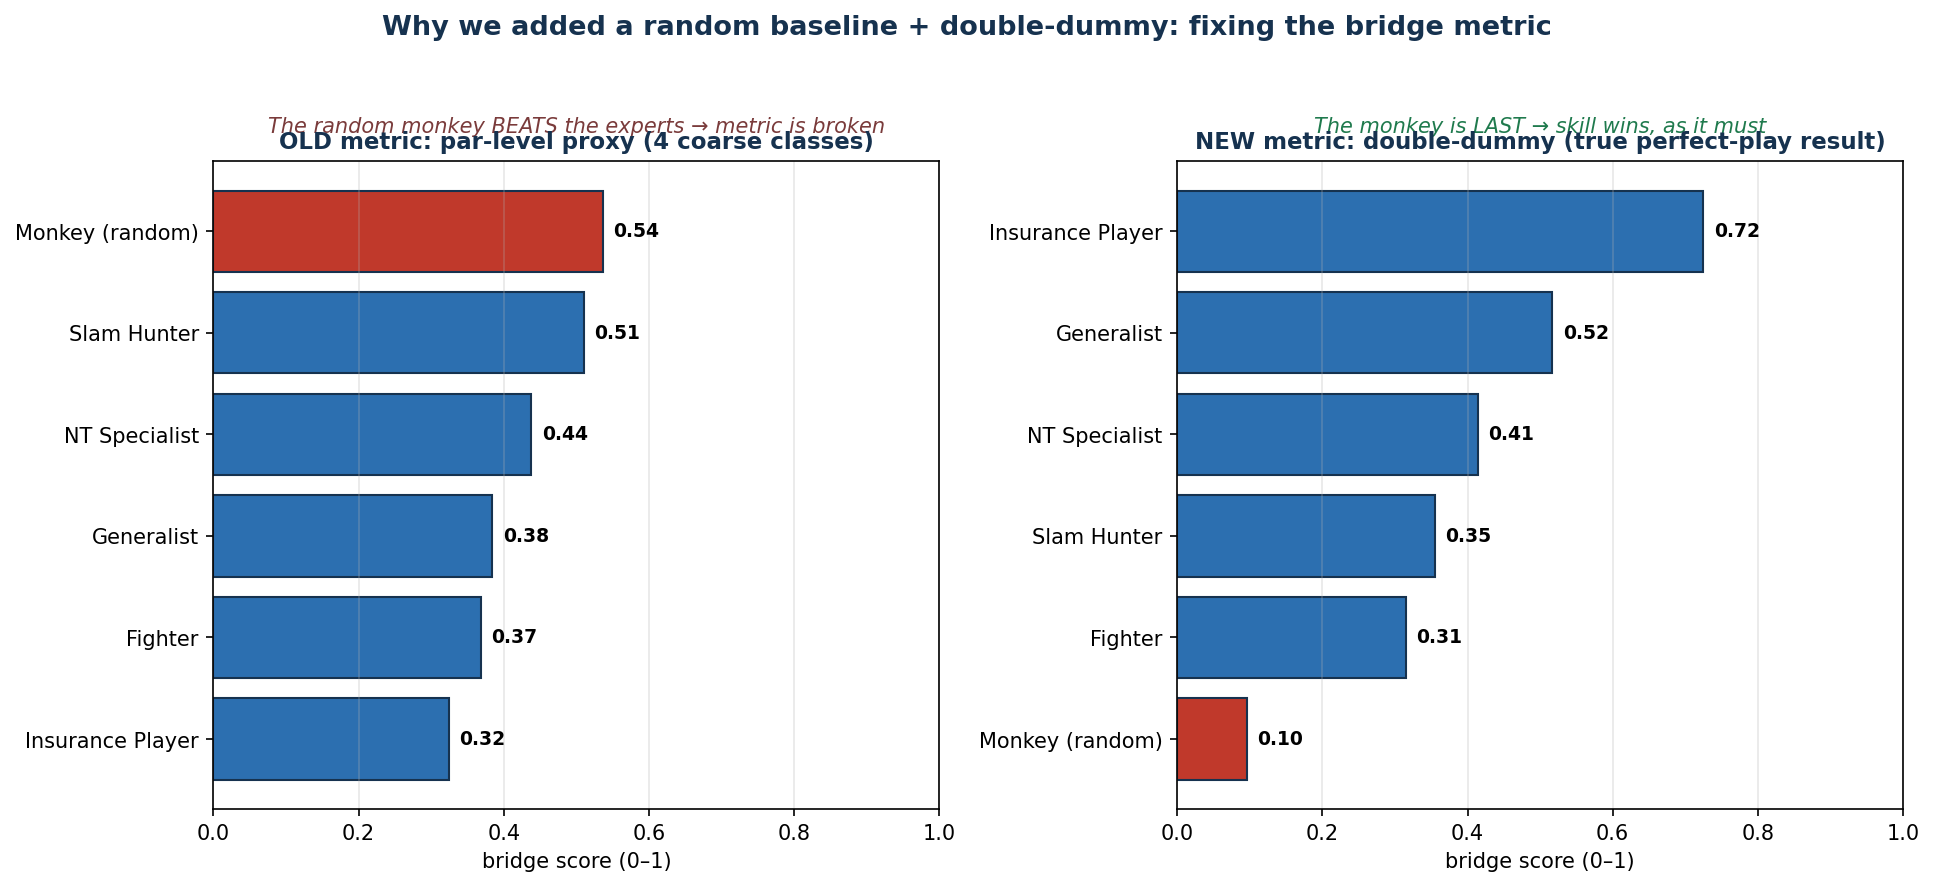
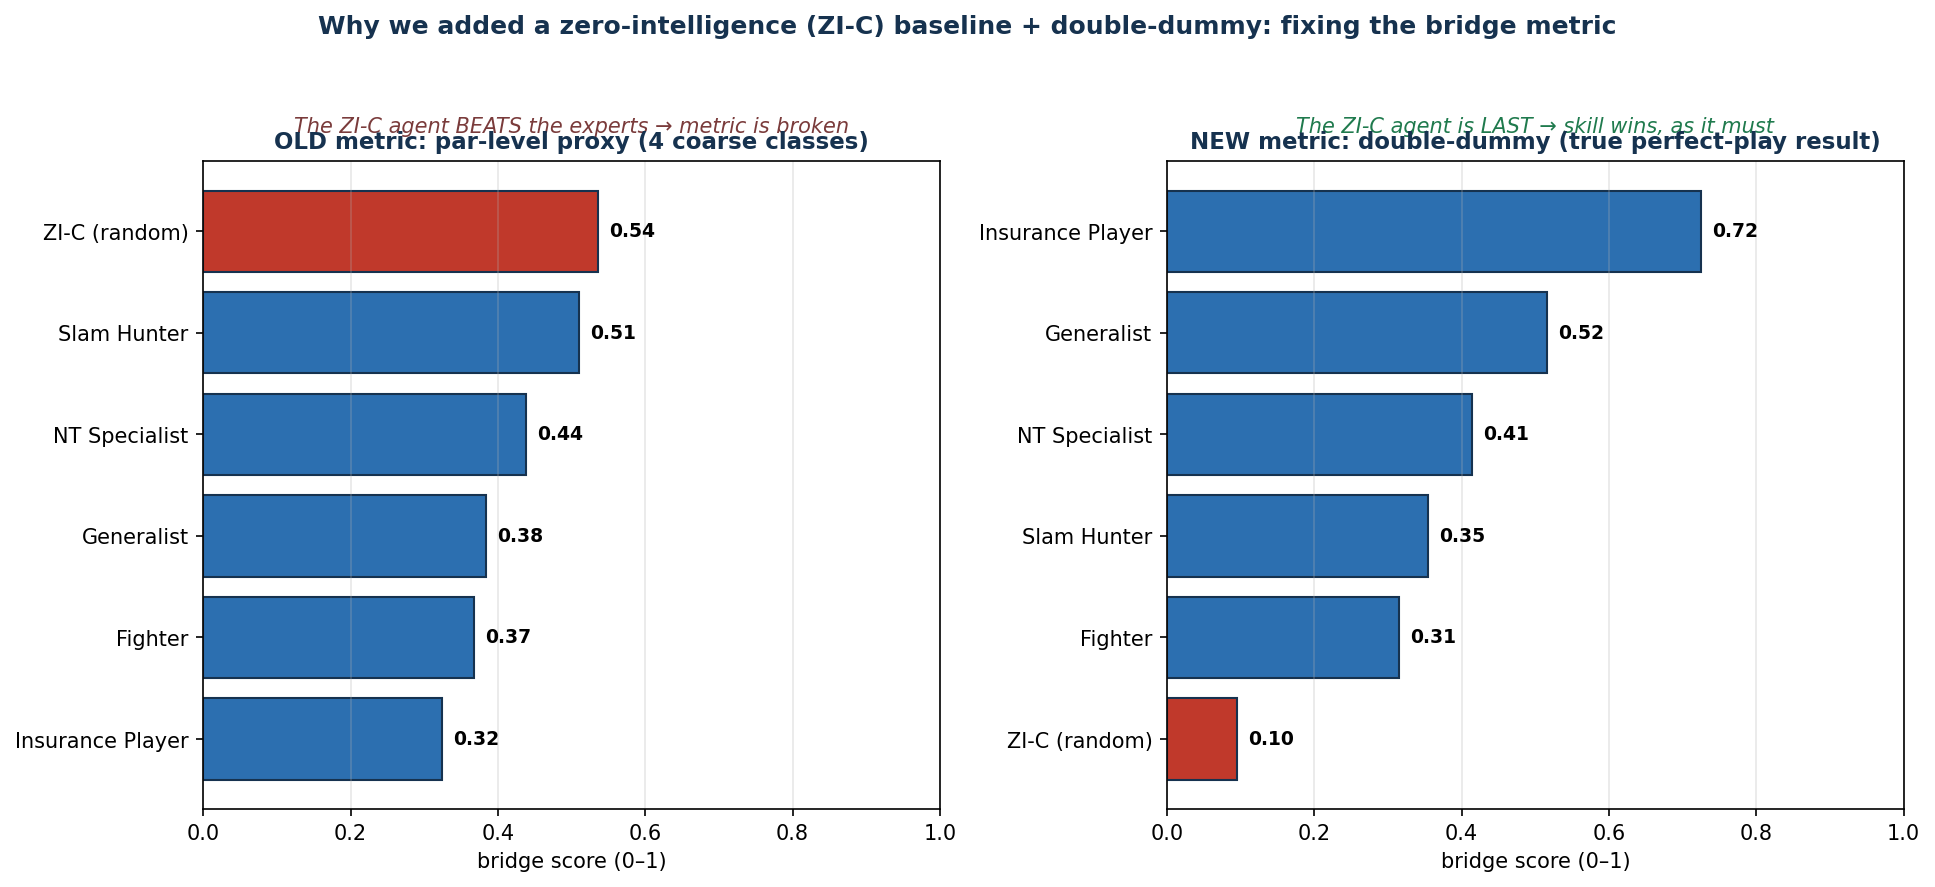
docs(portfolio): PhD-edition portfolio + terminology & structure upgrades
Add final_portfolio_phd: a doctoral-grade edition that keeps all experimental
results unchanged but raises the document to PhD standard:
- Formal terminology: Cross-Domain Behavioral Consistency (CDBC),
  Zero-Intelligence agent with Constraints (ZI-C), archetypal boundary
  profiling, identity-disentangled crossover control.
- New chapters: Formal Framework & Positioning (literature-anchored) and
  Mathematical Formulation (z-score, CV filter, binomial test, ZI-C policy,
  IMP, demand depth, Spearman rho) grounded in the real implementation.
- Generative-AI disclosure (LUT requirement), article-based-dissertation
  roadmap, and a References section (9 verified sources).

Both portfolios now share a single front-matter table of contents (no
duplicate title/acknowledgments/contents pages) and a plain-language
executive abstract.

Propagate the terminology and structure to the embedded reports and figures:
- main.tex / business_plan.tex: Monkey -> ZI-C, anti-tautology ->
  identity-disentangled; removed the duplicate sub-report title/ack pages.
- Remove the Schedule + Gantt chapters from the preparatory report.
- Clarify the five-profile structure (four archetypes + Generalist baseline)
  and the player_profiles.csv dimensions (563 x 20).
- Regenerate metric_fix and real_skill_spectrum figures with ZI-C labels
  (identical numbers, recomputed from saved data; no API cost).

diff --git a/NegoPlay/notebooks/visualize_metric_fix.py b/NegoPlay/notebooks/visualize_metric_fix.py
@@ -32,7 +32,7 @@ PARTNER_HCP = [("1C", 13), ("1NT", 16), ("2C", 22)]   # cycles by board (as in r
 JSONL = Path("results/stage4/bridge_simulations.jsonl")
 OUT = Path("docs/images/metric_fix_monkey_dd.png")
 
-MONKEY = "Monkey (random)"
+MONKEY = "ZI-C (random)"
 
 
 def _partnership_hcp(board: int) -> int:
@@ -80,9 +80,9 @@ def make_figure() -> None:
     fig, axes = plt.subplots(1, 2, figsize=(13, 6))
     panels = [
         ("old", "OLD metric: par-level proxy (4 coarse classes)",
-         "The random monkey BEATS the experts → metric is broken", axes[0]),
+         "The ZI-C agent BEATS the experts → metric is broken", axes[0]),
         ("new", "NEW metric: double-dummy (true perfect-play result)",
-         "The monkey is LAST → skill wins, as it must", axes[1]),
+         "The ZI-C agent is LAST → skill wins, as it must", axes[1]),
     ]
 
     for key, title, subtitle, ax in panels:
@@ -109,8 +109,8 @@ def make_figure() -> None:
         ax.grid(axis="x", alpha=0.3)
 
     fig.suptitle(
-        "Why we added a random baseline + double-dummy: fixing the bridge metric",
-        fontsize=13, fontweight="bold", color="#16324f")
+        "Why we added a zero-intelligence (ZI-C) baseline + double-dummy: fixing the bridge metric",
+        fontsize=12, fontweight="bold", color="#16324f")
     fig.tight_layout(rect=[0, 0, 1, 0.95])
     OUT.parent.mkdir(parents=True, exist_ok=True)
     fig.savefig(OUT, dpi=150, bbox_inches="tight")

diff --git a/NegoPlay/notebooks/visualize_real_skill_spectrum.py b/NegoPlay/notebooks/visualize_real_skill_spectrum.py
@@ -123,7 +123,7 @@ def make_figure() -> None:
     mk, pf = anchors["monkey"], anchors["perfect"]
     axL.axvspan(mk - 0.6, mk + 0.6, color="#f6d5d2", alpha=0.5)
     axL.scatter([mk], [0], s=300, color="#c0392b", edgecolors="black", zorder=3)
-    axL.text(mk, 0.5, "random monkey\n(random contract)", ha="center", fontsize=10,
+    axL.text(mk, 0.5, "zero-intelligence (ZI-C)\n(random contract)", ha="center", fontsize=10,
              color="#c0392b", fontweight="bold")
     axL.axvline(pf, color="#1f7a4d", ls="--", lw=2)
     axL.text(pf, 0.5, "double-dummy\nperfect play", ha="center", fontsize=10,
